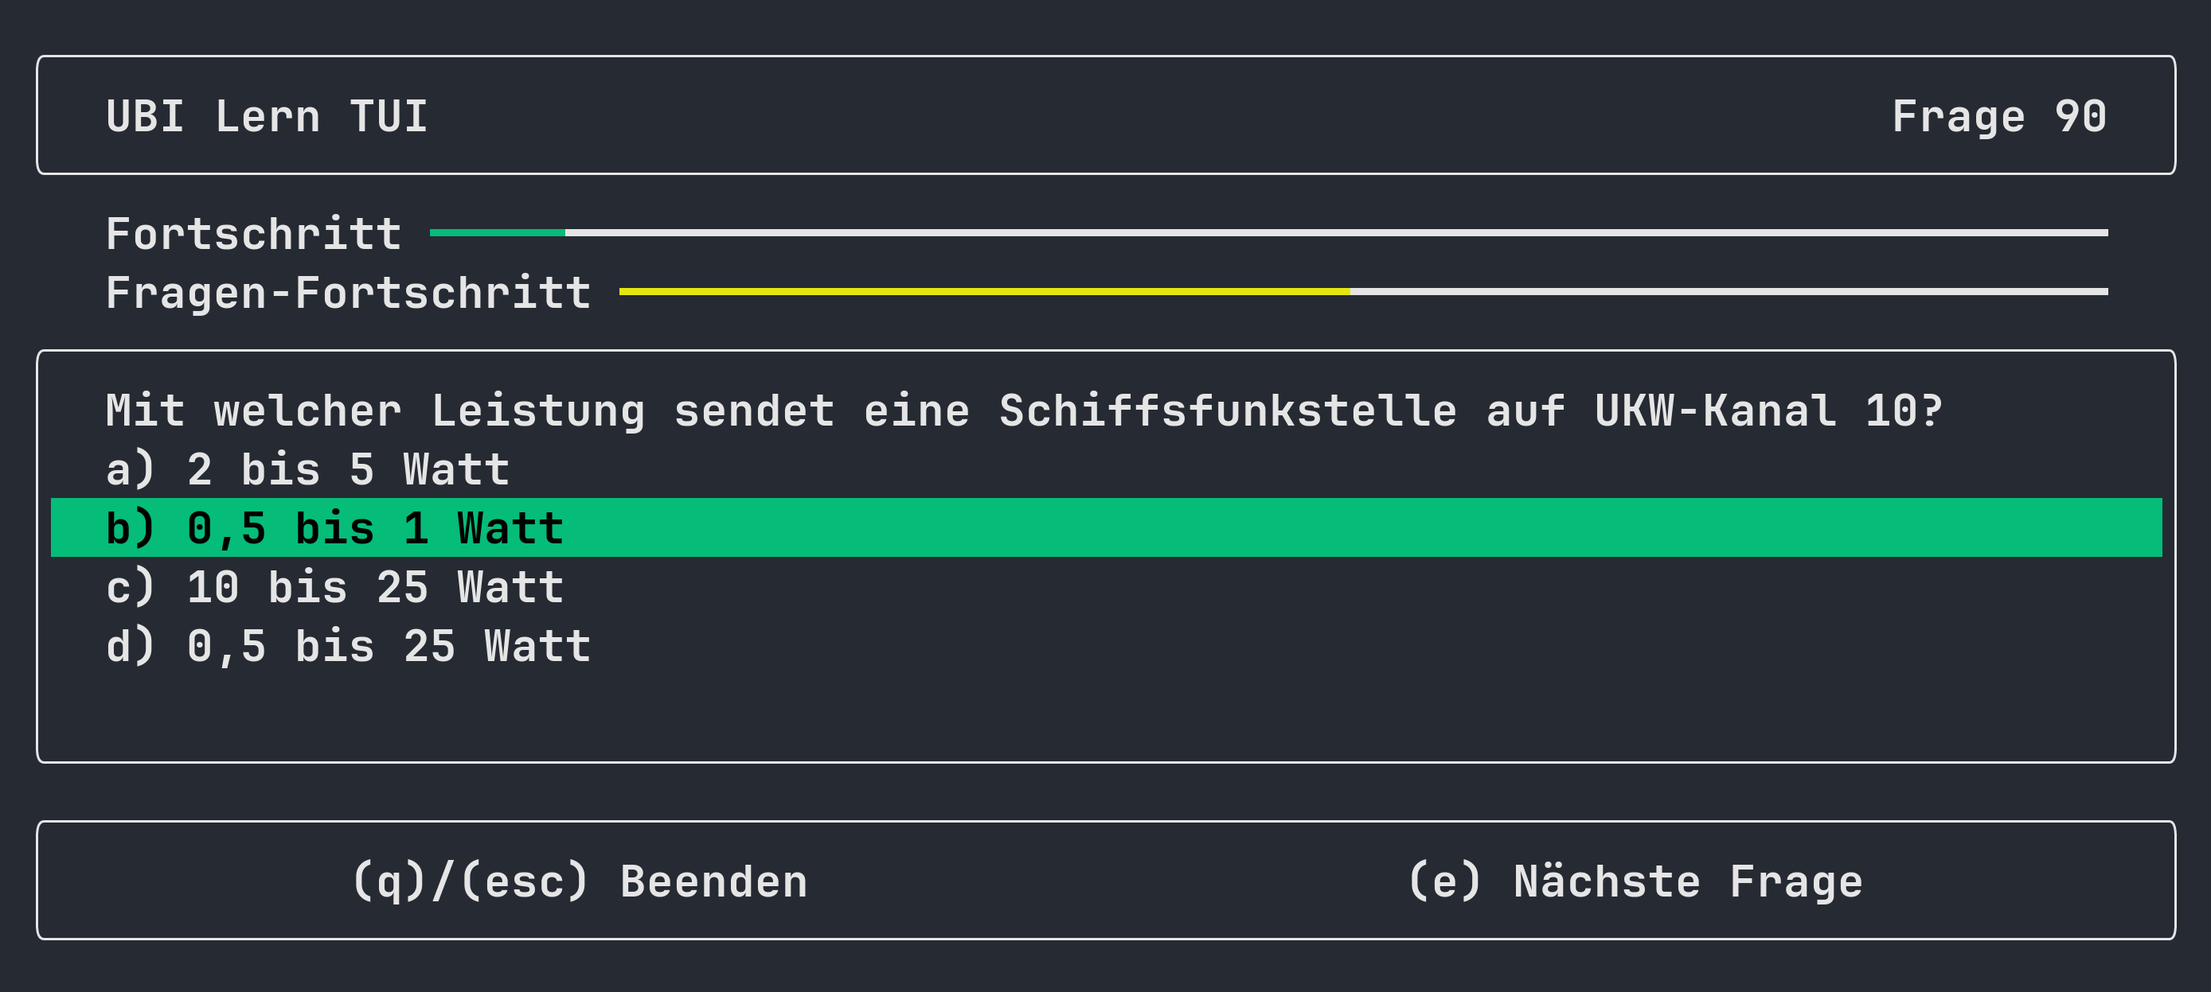
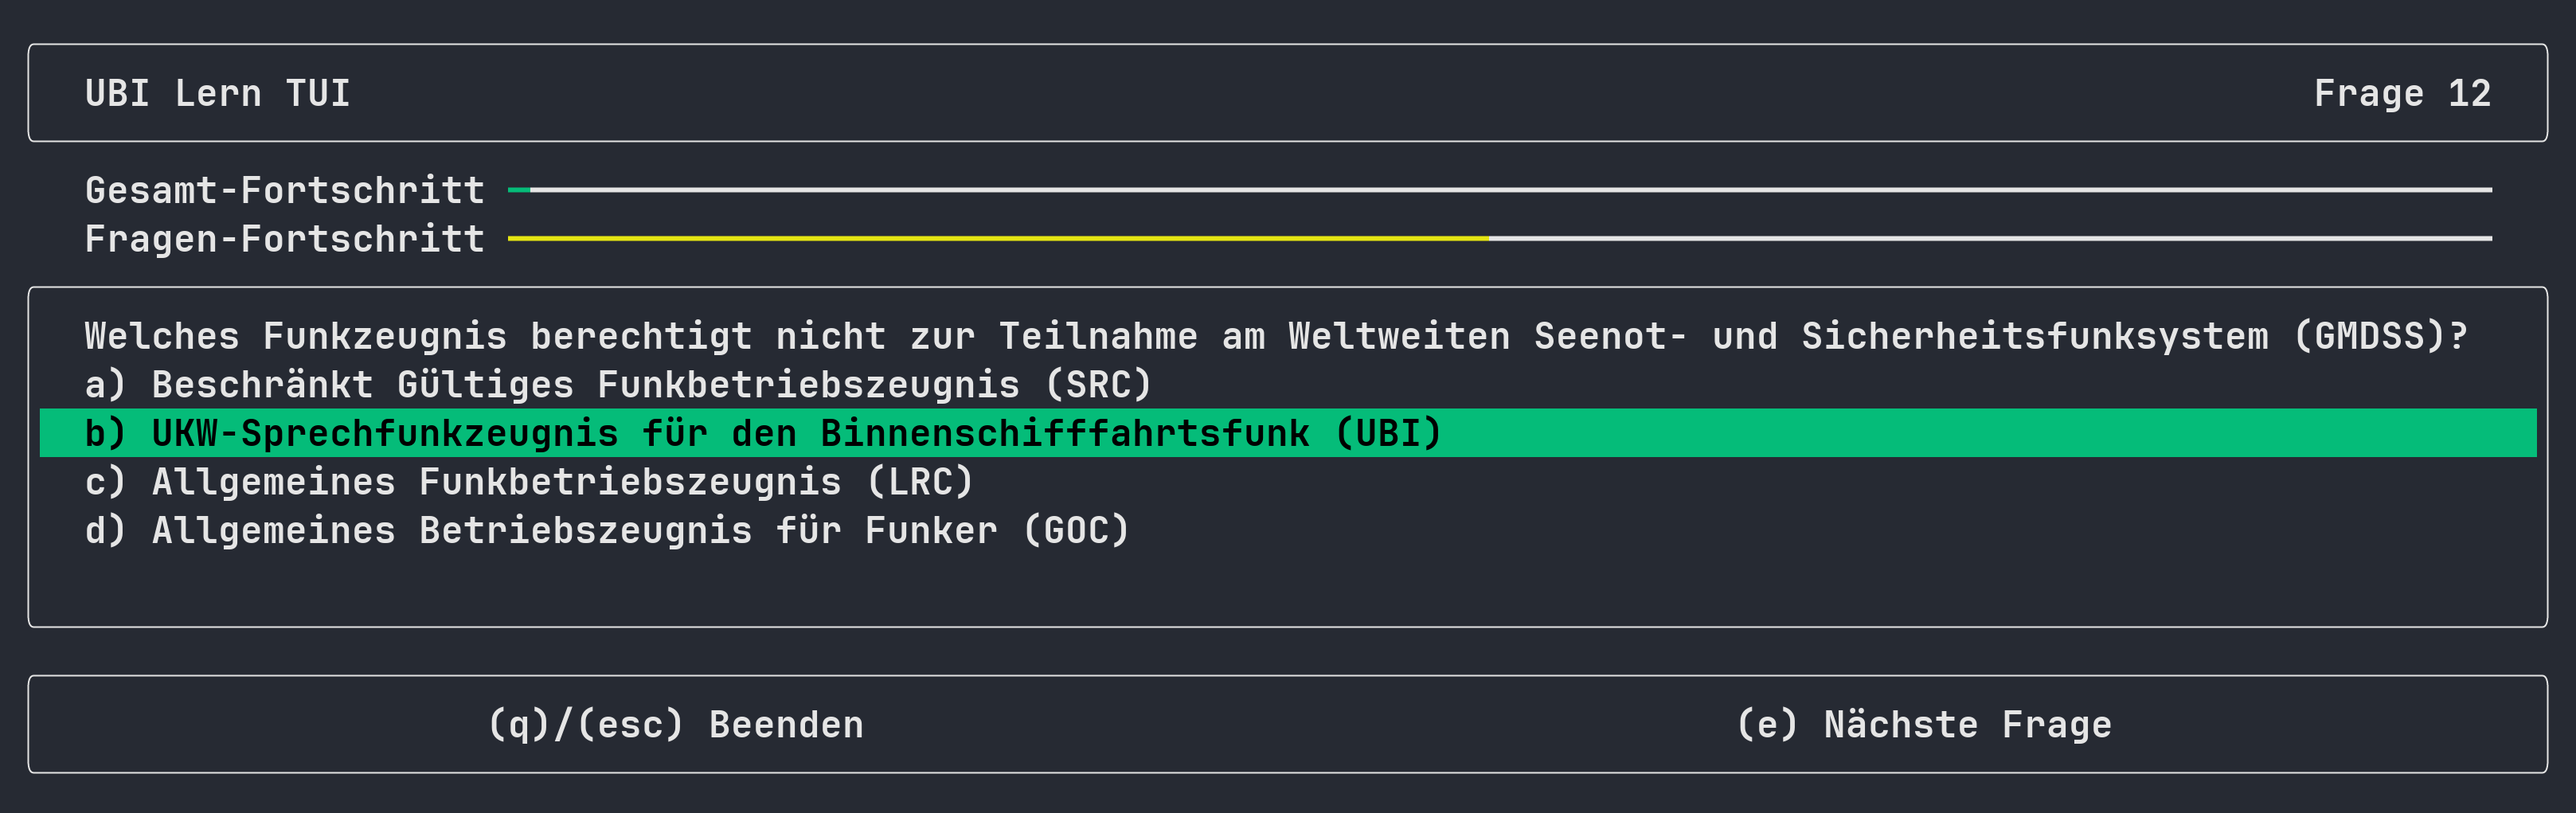
Swapped screenshots with new total prograss bar label. Removed textwrap spacing after linebreak for questions.

diff --git a/src/ui.rs b/src/ui.rs
@@ -184,13 +184,13 @@ fn render_selector_list(frame: &mut Frame, area: Rect, q: &QuestionAnswer, item_
       let textwrap_options = textwrap::Options::new((area.width - 6).try_into().unwrap()).word_splitter((*TEXTWRAP_DICT).clone());
 
       macro_rules! wrap_text_count {
-            ($s:expr) => {
+            ($line_end:literal $s:expr) => {
                   {
                         let s_vec = textwrap::wrap($s, &textwrap_options);
                         let mut s_string: String = "".to_owned();
                         for s_elem in s_vec.iter().take(s_vec.len()-1) {
                               s_string.push_str(s_elem);
-                              s_string.push_str("\n   ");
+                              s_string.push_str($line_end);
                         }
                         s_string.push_str(s_vec.last().unwrap());
                         (s_string, s_vec.len())
@@ -200,11 +200,11 @@ fn render_selector_list(frame: &mut Frame, area: Rect, q: &QuestionAnswer, item_
 
       macro_rules! wrap_text {
             ($s:expr) => {
-                  wrap_text_count!($s).0
+                  wrap_text_count!("\n   " $s).0
             };
       }
 
-      let (question_str, question_line_breaks)= wrap_text_count!(q.question.as_str());
+      let (question_str, question_line_breaks)= wrap_text_count!("\n" q.question.as_str());
       let question = Paragraph::new(question_str)
             .block(Block::default()
             .borders(Borders::LEFT | Borders::RIGHT | Borders::TOP)

diff --git a/CHANGELOG.md b/CHANGELOG.md
@@ -31,6 +31,7 @@ and this project adheres to [Semantic Versioning](https://semver.org/spec/v2.0.0
 - 3rd party license file is generated on release now.
 - Added spaces for textwrap in answer list.
 - Embed only german dictionary. This saves 3MB roughly.
+- Changed screenshots to reflect changes in ui.
 
 
 ## [0.1.1] - 2024-01-14
